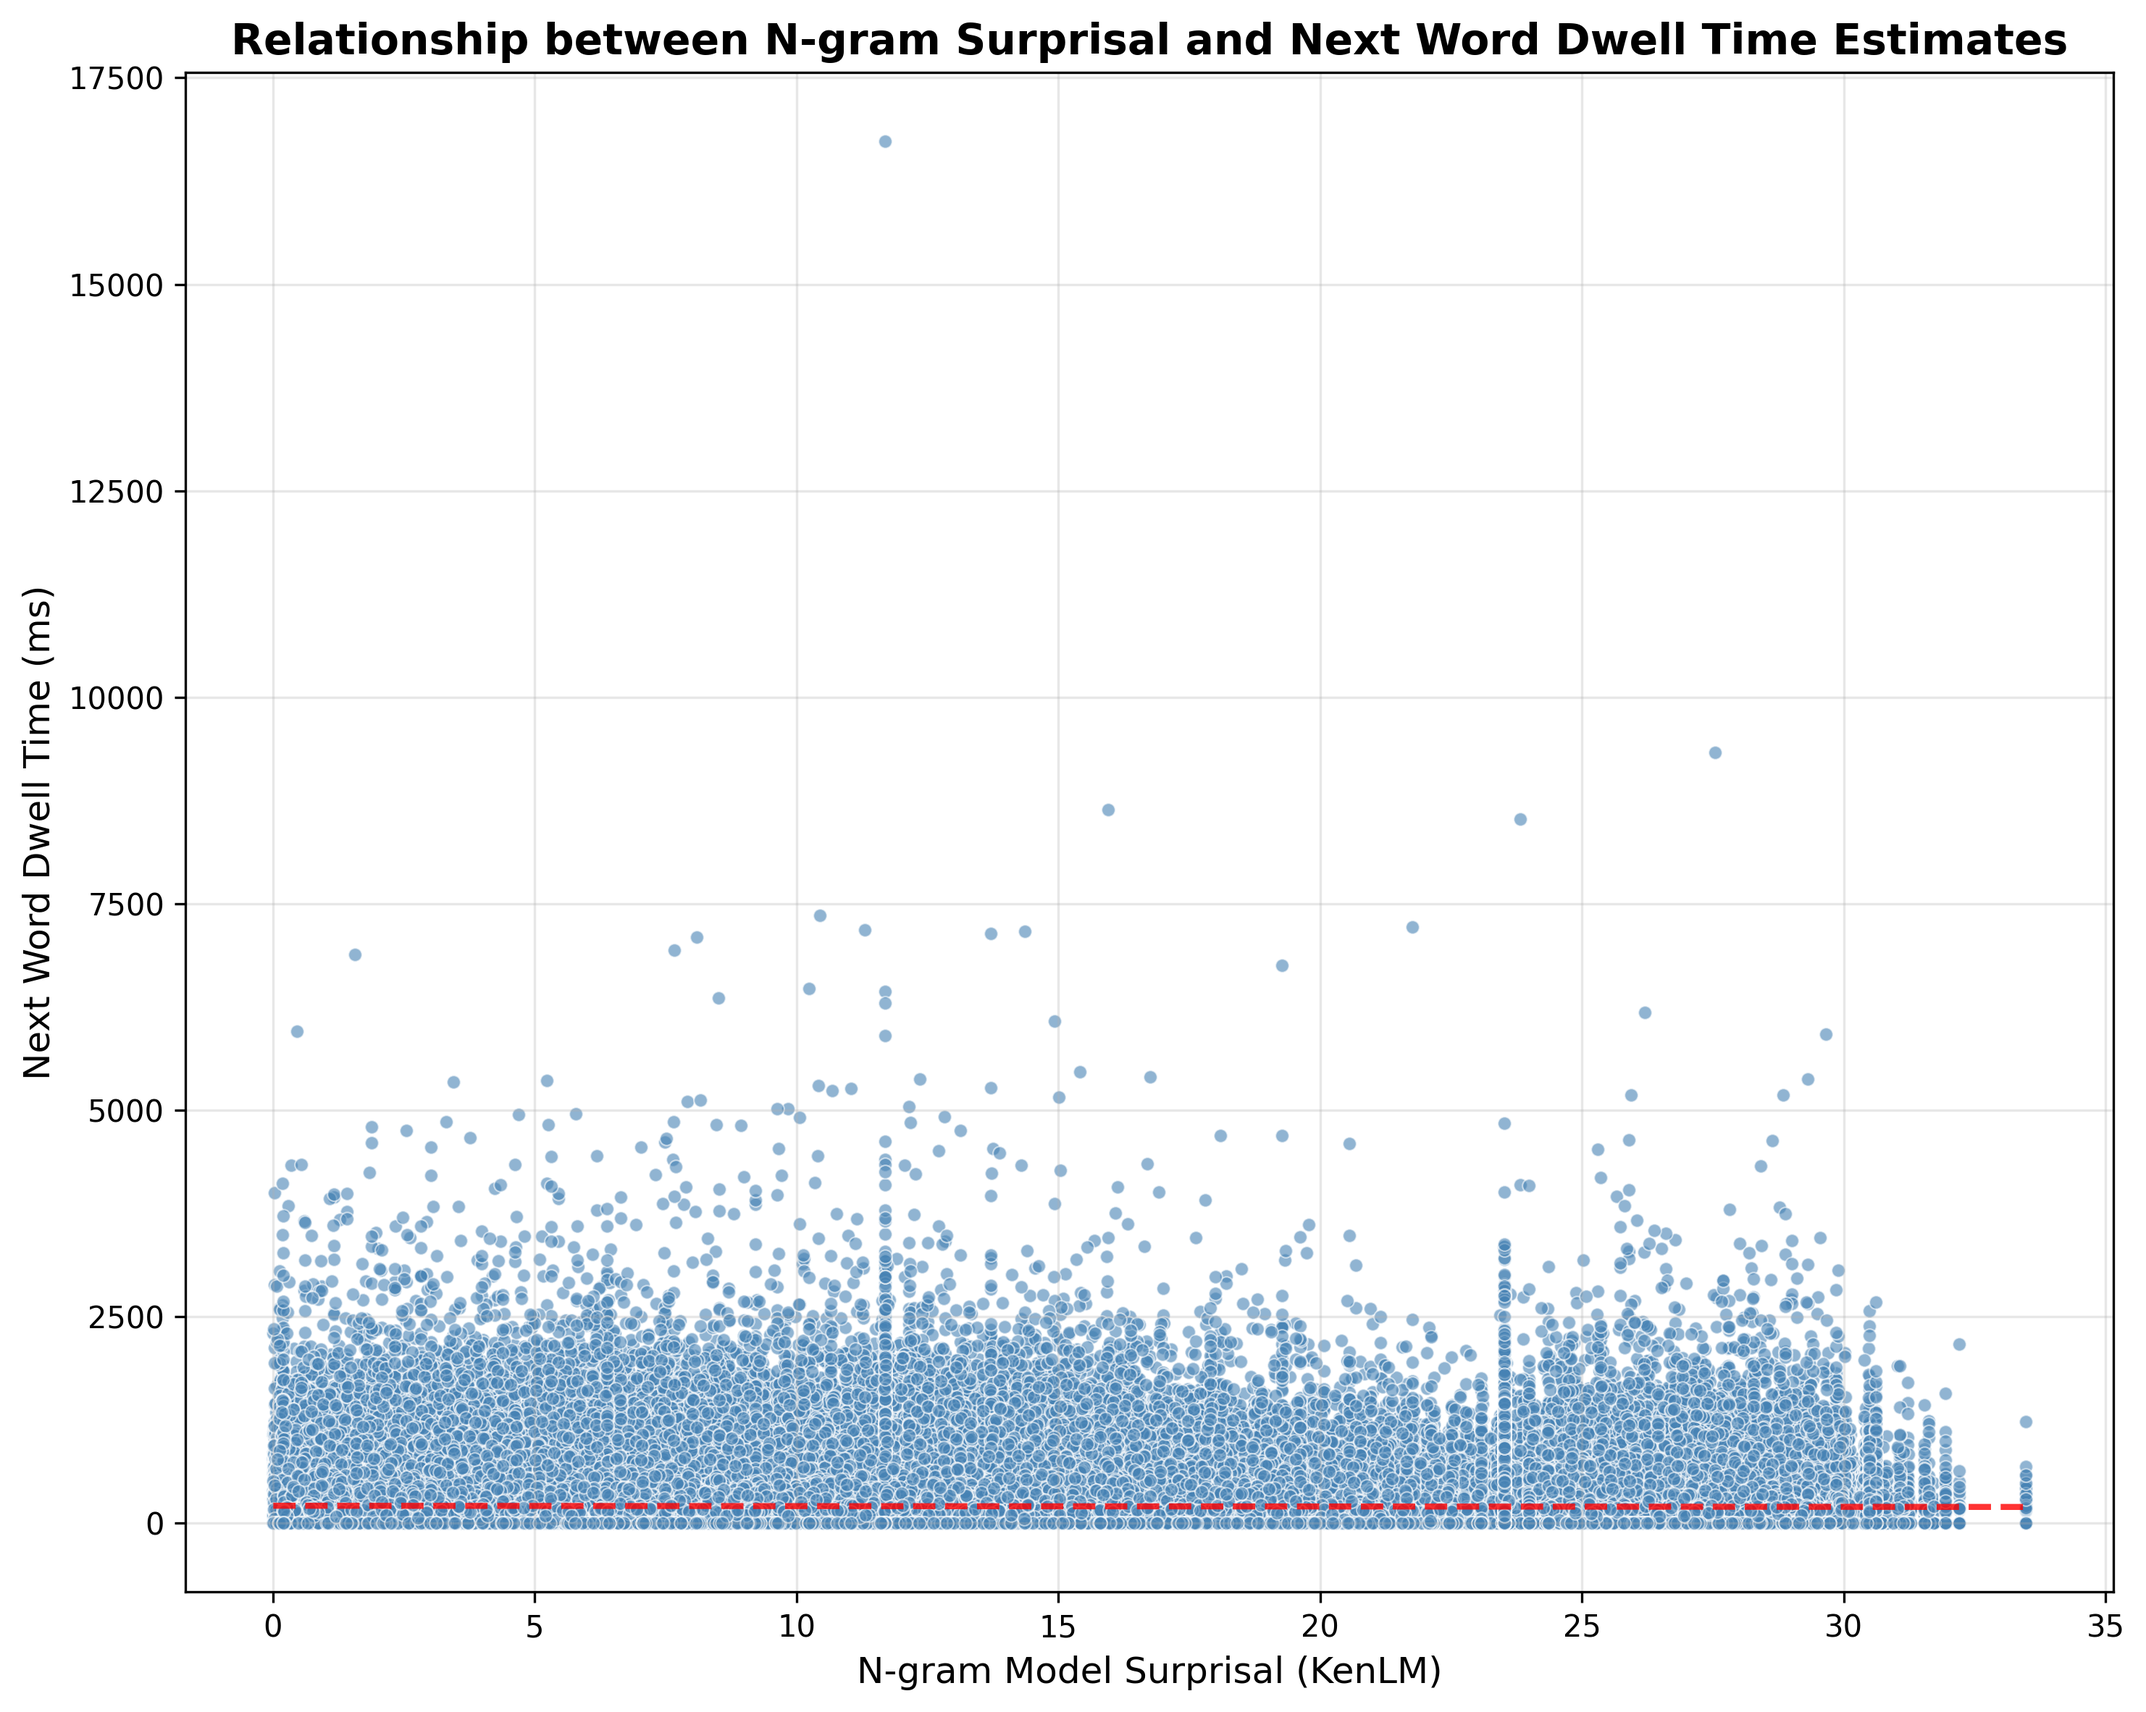
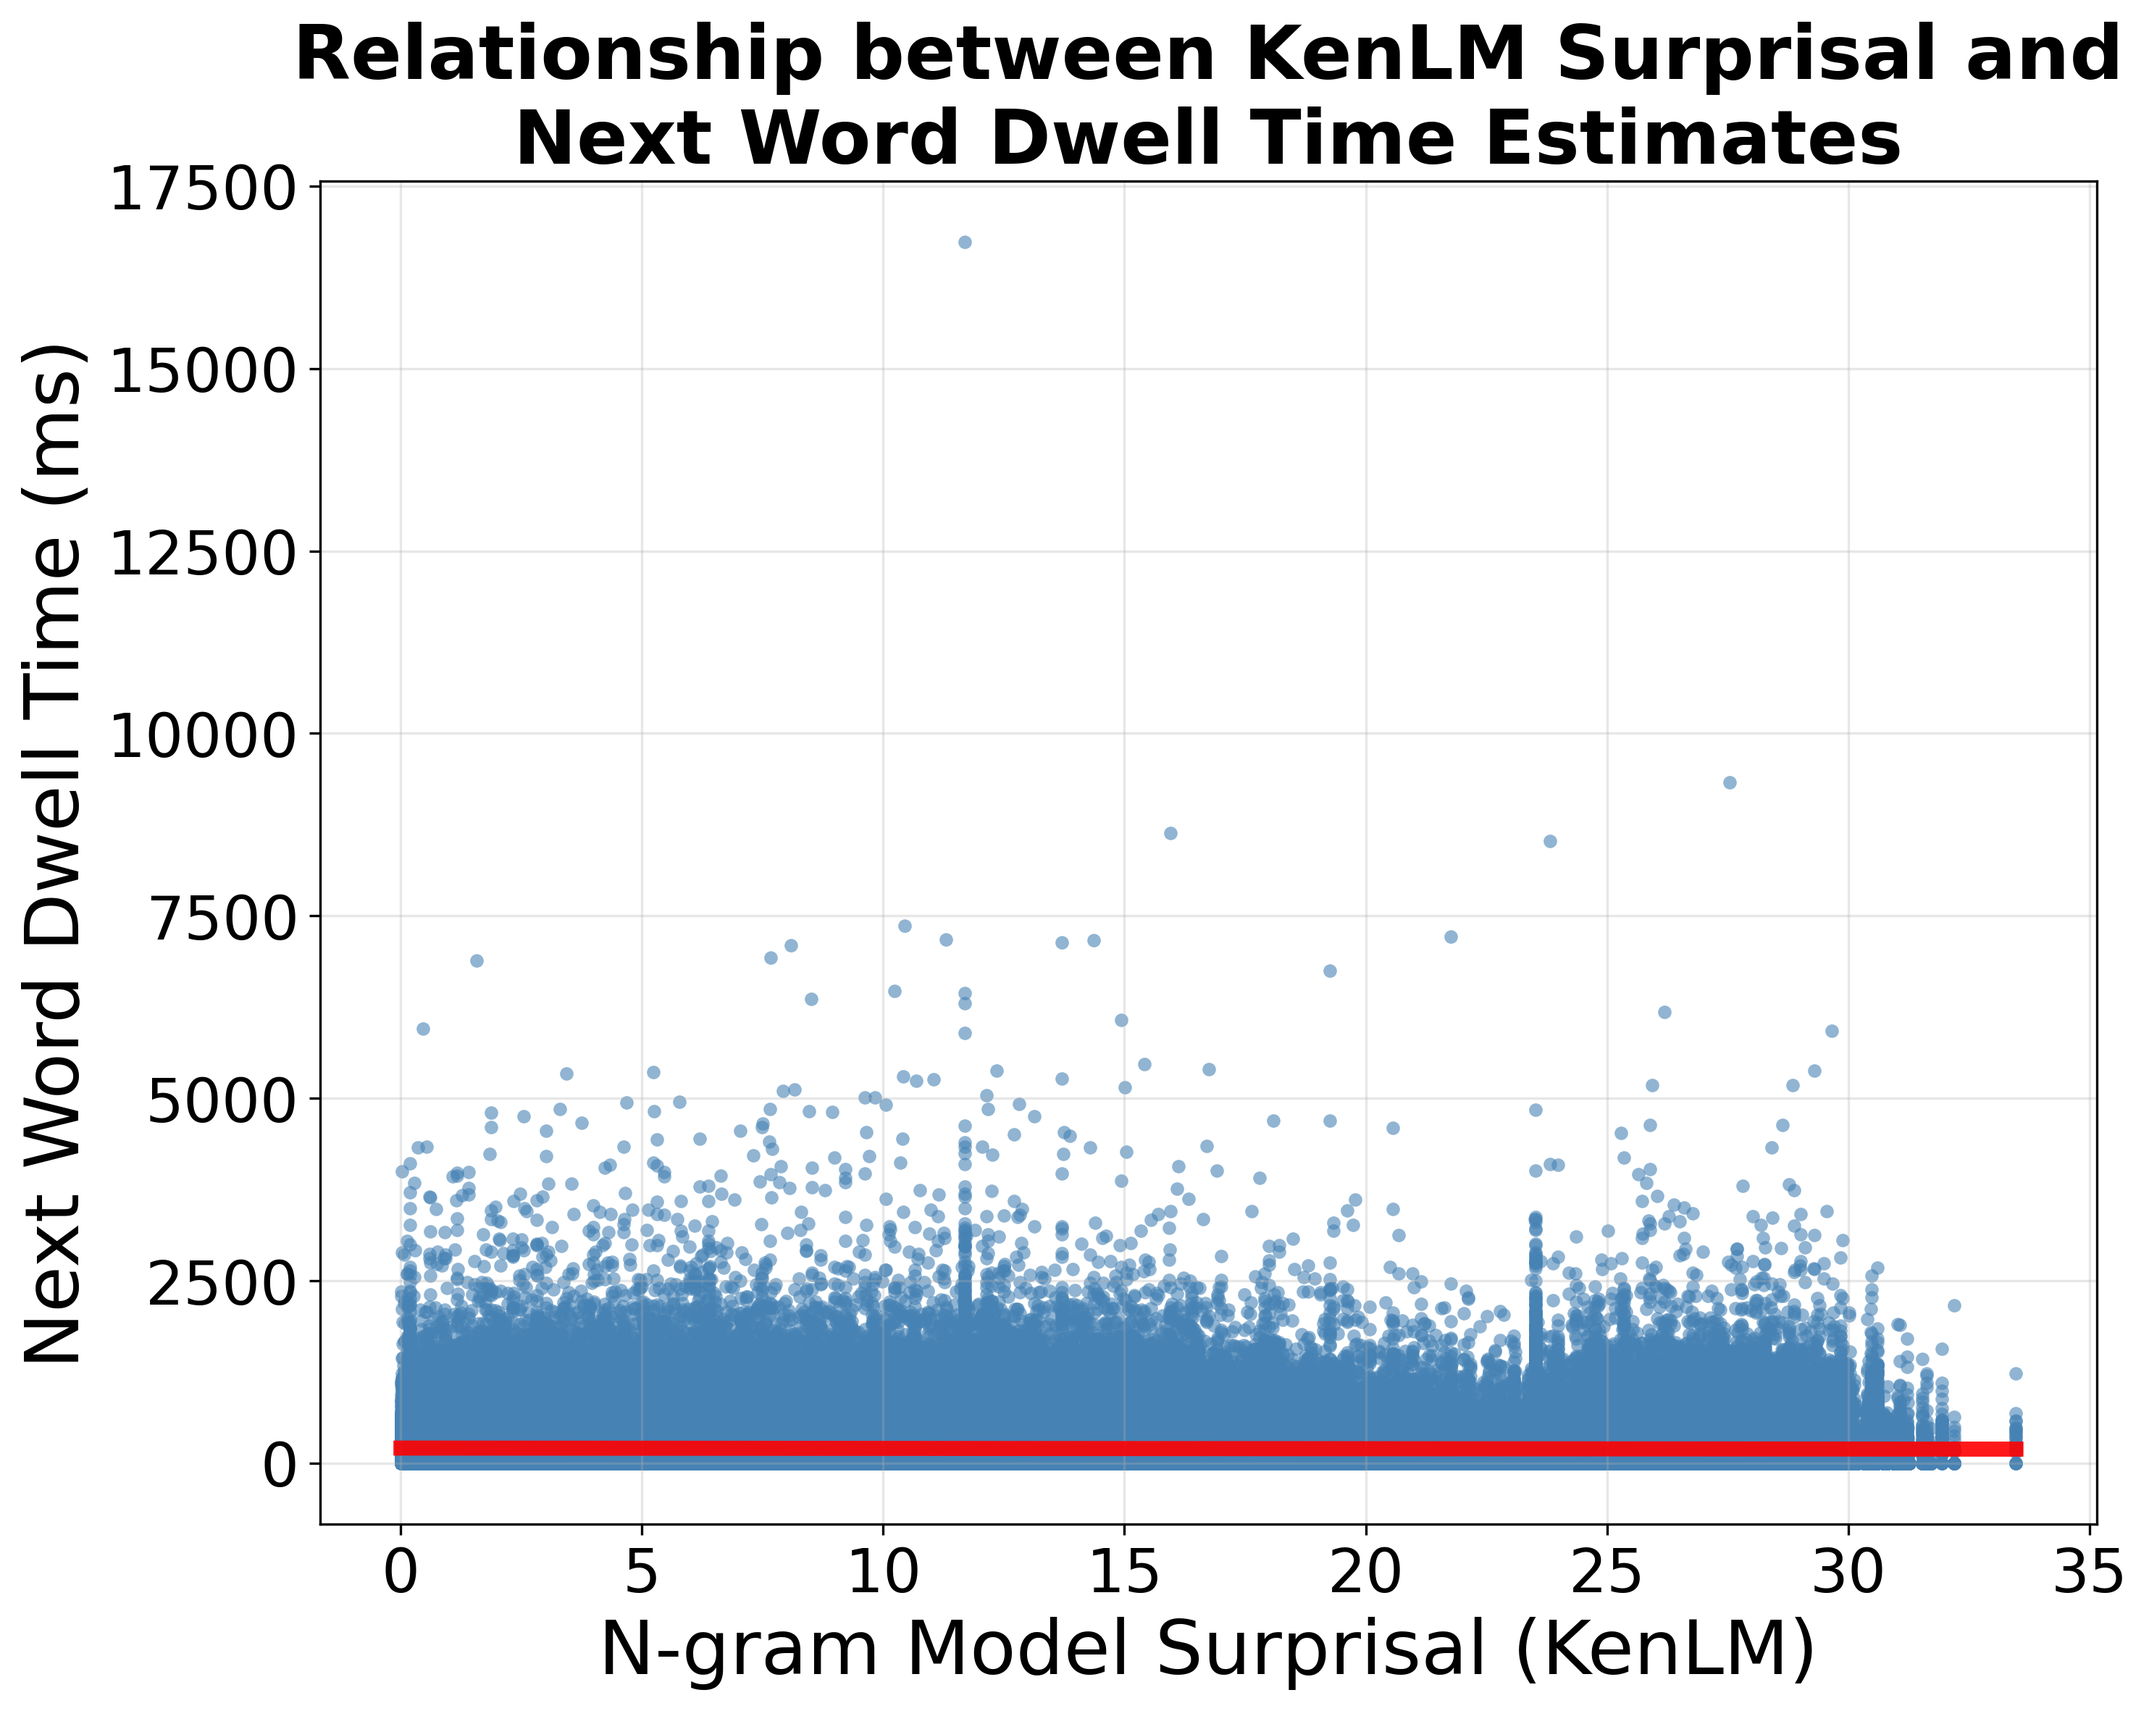
Another results update

diff --git a/get_results/correlation_plot_and_statistics.py b/get_results/correlation_plot_and_statistics.py
@@ -252,14 +252,14 @@ if __name__ == "__main__":
     
     # Run analysis
     runs = [
-            ("kenlm", "pythia_sum", True),
-            ("kenlm", "pythia_average", True),
+            ("kenlm", "pythia_sum", True, None, None),
+            ("kenlm", "pythia_average", True, None, None),
             ("kenlm", "dwell_time", False, None, None),
             ("pythia_sum", "dwell_time", False, None, None),
             ("pythia_average", "dwell_time", False, None, None),
-            ("kenlm", "next_word_IA_DWELL_TIME", False),
-            ("pythia_sum", "next_word_IA_DWELL_TIME", False),
-            ("pythia_average", "next_word_IA_DWELL_TIME", False)
+            ("kenlm", "next_word_IA_DWELL_TIME", False, None, None),
+            ("pythia_sum", "next_word_IA_DWELL_TIME", False, None, None),
+            ("pythia_average", "next_word_IA_DWELL_TIME", False, None, None),
             ]
     for x_desc, y_desc, does_to_plot_perfect_corellation, xlim, ylim in runs:
         scatter_output = f"{results_folder}\\correlation_scatter_{x_desc}_vs_{y_desc}.png"
